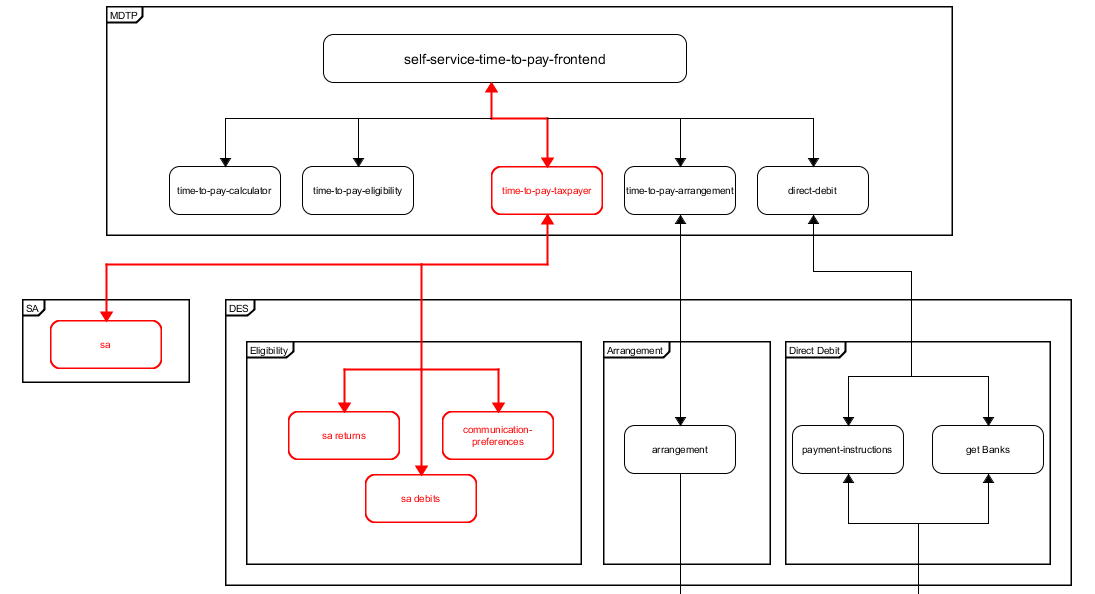
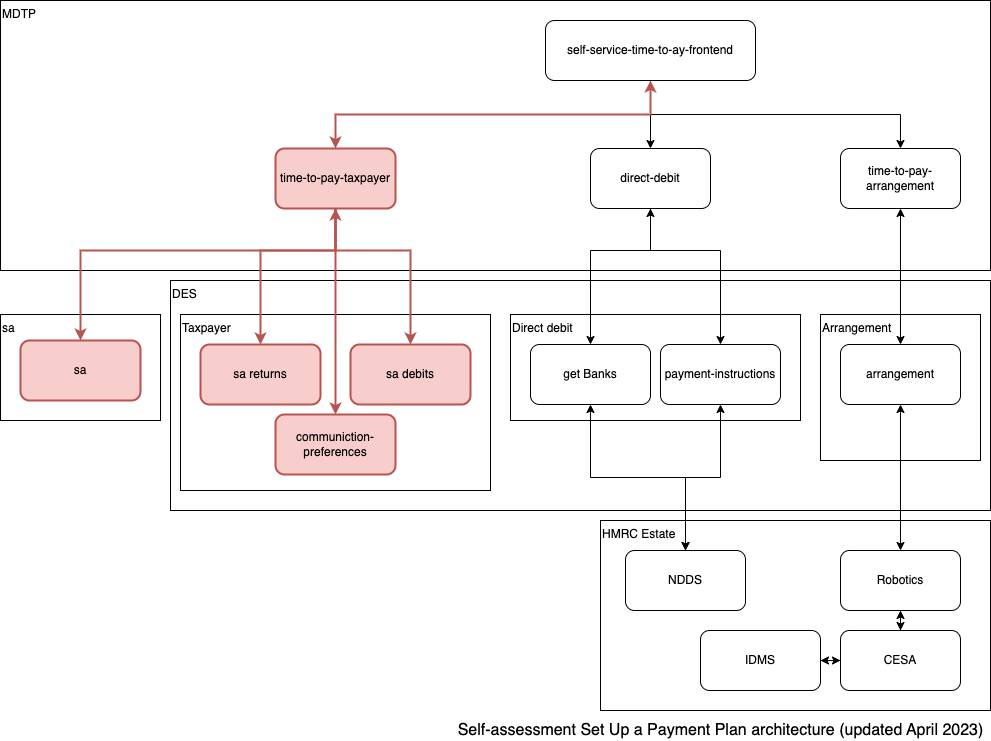
[AM][OPS-10152] update architecture diagram in README

diff --git a/README.md b/README.md
@@ -5,7 +5,7 @@ information for a given UTR. Below is a diagram showing where the Taxpayer servi
 
 <a href="https://github.com/hmrc/time-to-pay-taxpayer">
     <p align="center">
-        <img src="https://raw.githubusercontent.com/hmrc/time-to-pay-taxpayer/master/public/taxpayer.png" alt="TaxpayerOverview">
+        <img src="public/taxpayer.png" alt="TaxpayerOverview">
     </p>
 </a>
 
